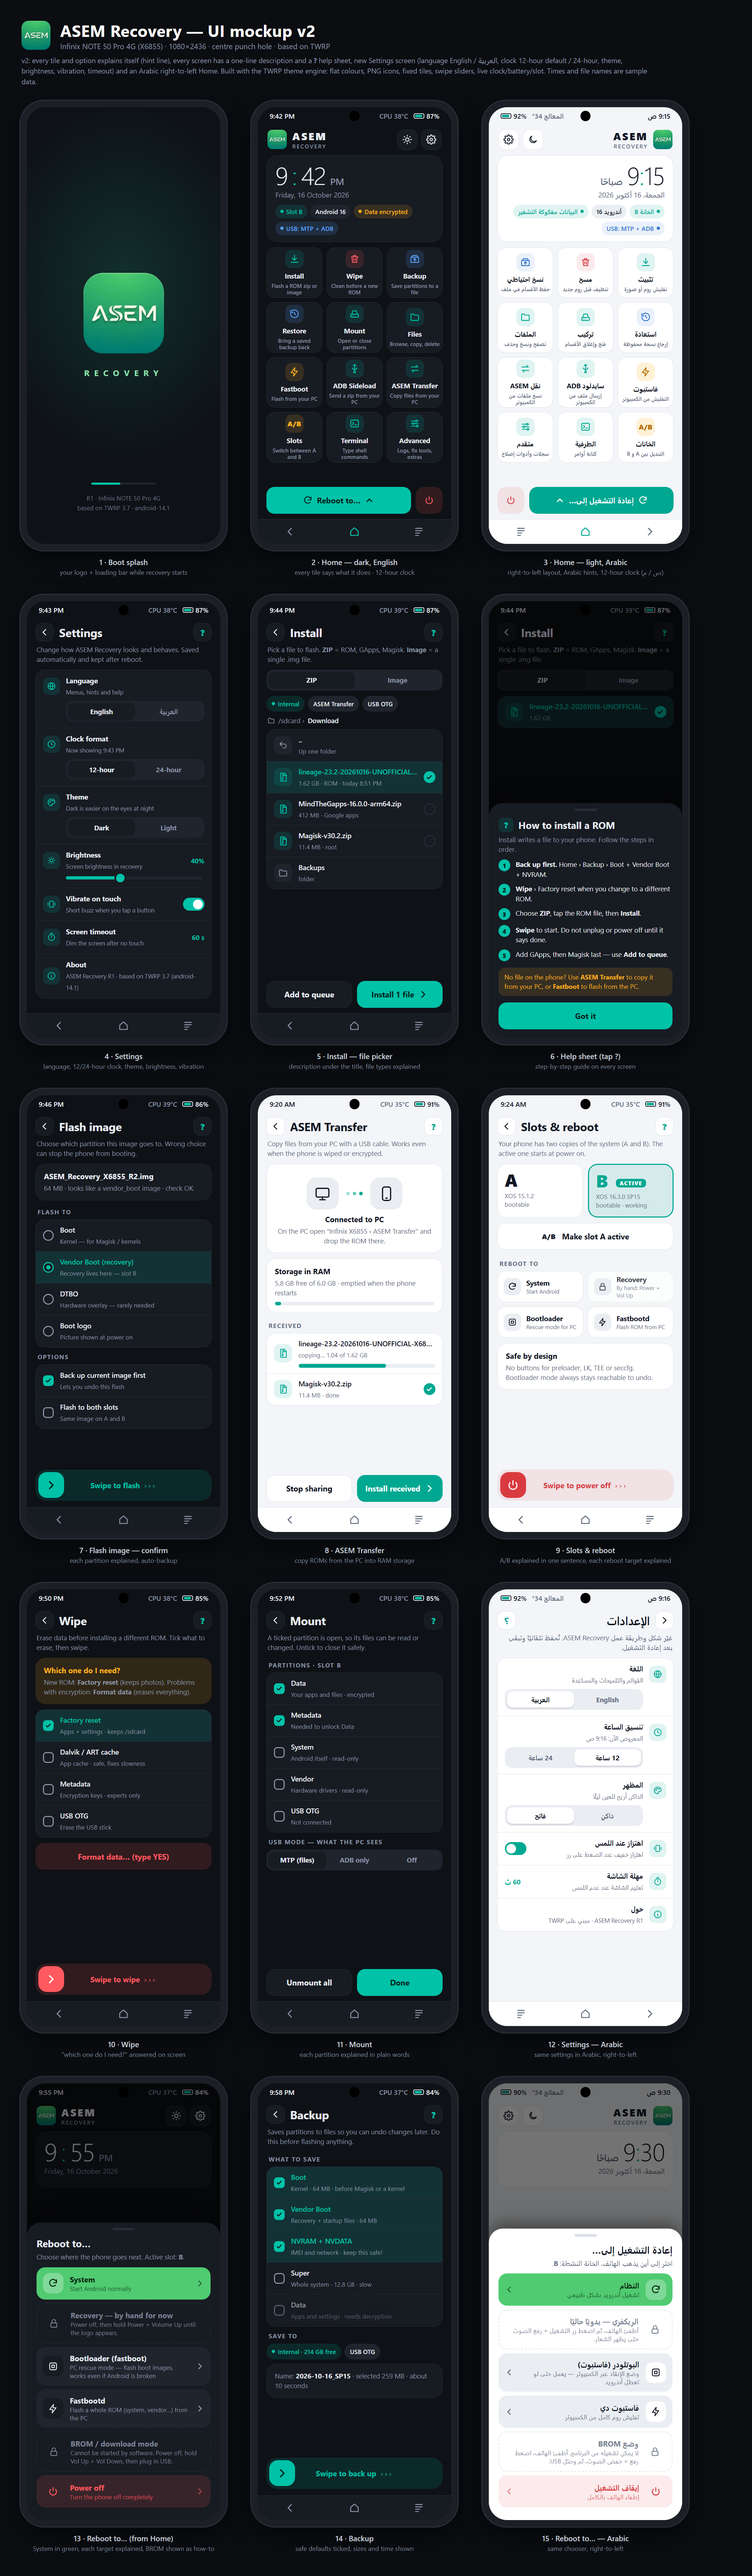
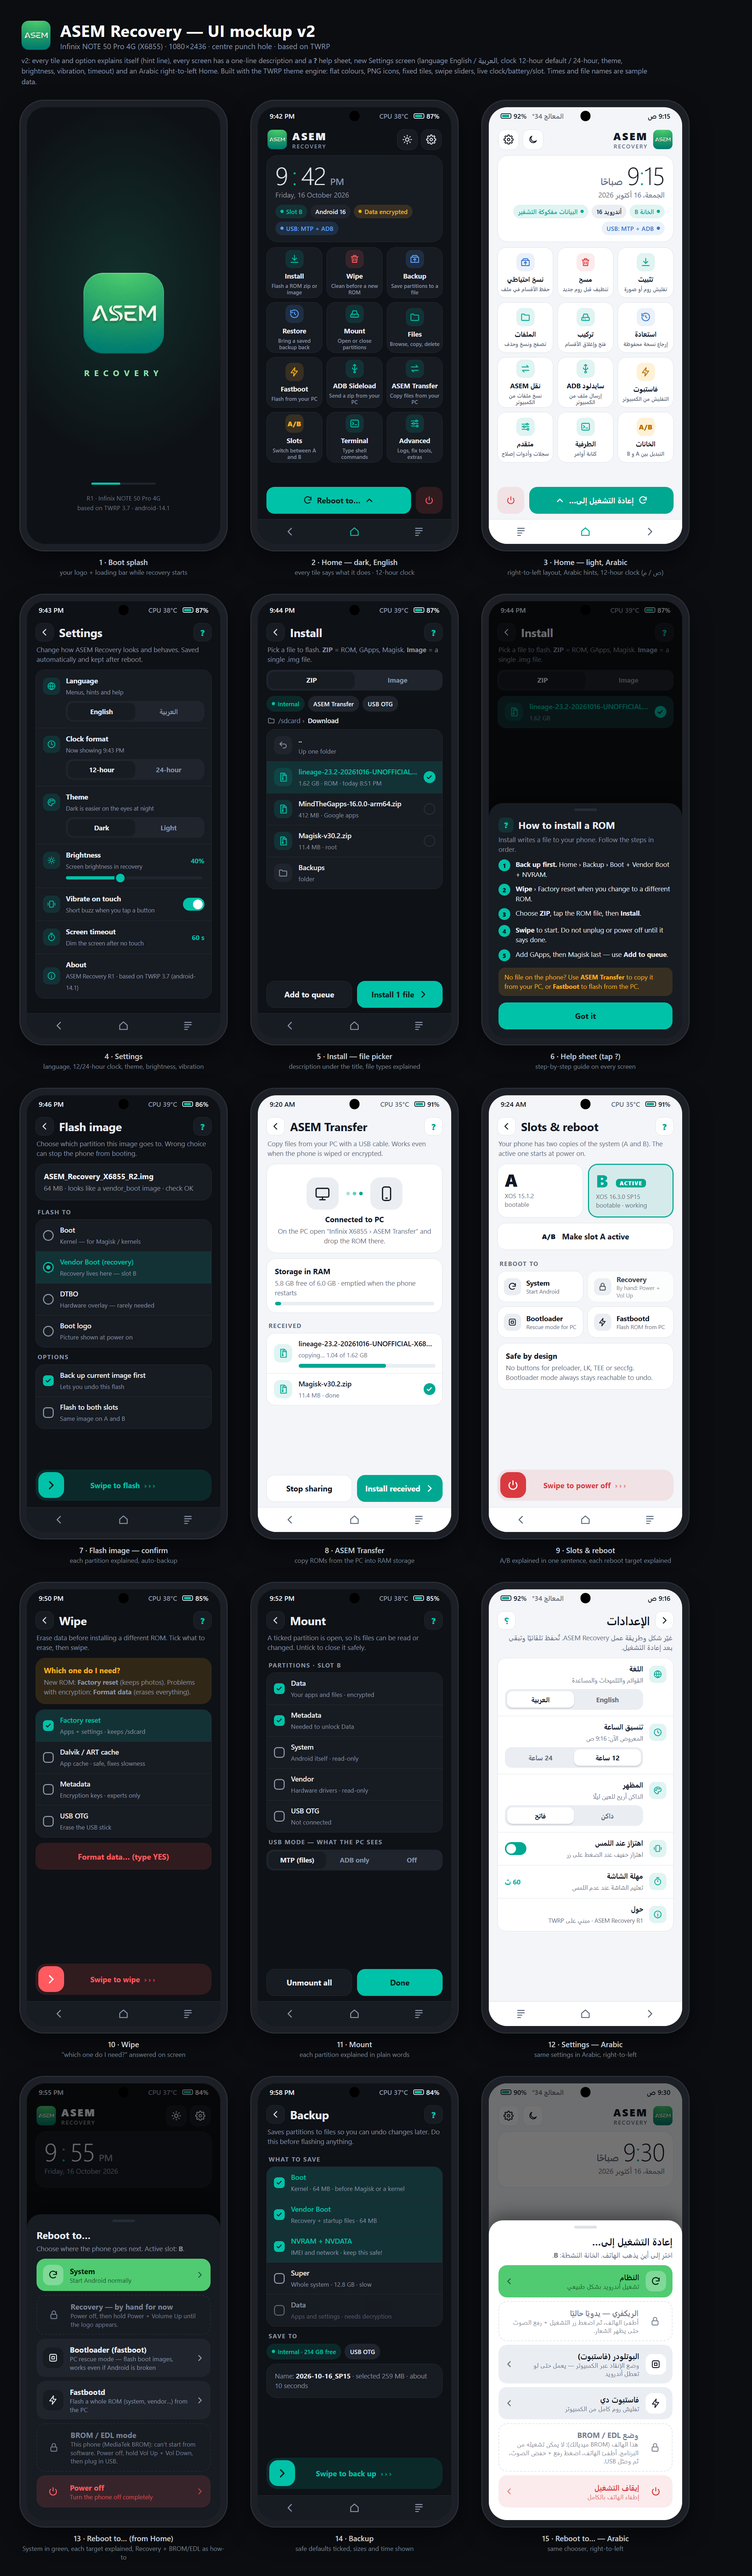
Design: BROM / EDL card (chip-specific text from device config); document universal-recovery goal

Changed region(s): [[0.031, 0.8418, 0.2786, 0.9665], [0.65, 0.8418, 0.8976, 0.9665]]

diff --git a/design/asem_recovery_mockup.html b/design/asem_recovery_mockup.html
@@ -665,11 +665,11 @@ Built with the TWRP theme engine: flat colours, PNG icons, fixed tiles, swipe sl
     <div class="ropt na"><div class="ic"><svg><use href="#i-lock"/></svg></div><div class="t"><b>Recovery &mdash; by hand for now</b><span>Power off, then hold Power + Volume Up until the logo appears.</span></div></div>
     <div class="ropt"><div class="ic"><svg><use href="#i-bootl"/></svg></div><div class="t"><b>Bootloader (fastboot)</b><span>PC rescue mode &mdash; flash boot images, works even if Android is broken</span></div><svg class="chev"><use href="#i-chev"/></svg></div>
     <div class="ropt"><div class="ic"><svg><use href="#i-bolt"/></svg></div><div class="t"><b>Fastbootd</b><span>Flash a whole ROM (system, vendor&hellip;) from the PC</span></div><svg class="chev"><use href="#i-chev"/></svg></div>
-    <div class="ropt na"><div class="ic"><svg><use href="#i-lock"/></svg></div><div class="t"><b>BROM / download mode</b><span>Cannot be started by software. Power off, hold Vol Up + Vol Down, then plug in USB.</span></div></div>
+    <div class="ropt na"><div class="ic"><svg><use href="#i-lock"/></svg></div><div class="t"><b>BROM / EDL mode</b><span>This phone (MediaTek BROM): can't start from software. Power off, hold Vol Up + Vol Down, then plug in USB.</span></div></div>
     <div class="ropt off"><div class="ic"><svg><use href="#i-power"/></svg></div><div class="t"><b>Power off</b><span style="color:inherit;opacity:.8">Turn the phone off completely</span></div><svg class="chev"><use href="#i-chev"/></svg></div>
   </div>
 </div></div>
-<div class="cap">13 &middot; Reboot to&hellip; (from Home)<span>System in green, each target explained, BROM shown as how-to</span></div>
+<div class="cap">13 &middot; Reboot to&hellip; (from Home)<span>System in green, each target explained, Recovery + BROM/EDL as how-to</span></div>
 </div>
 
 <!-- 14 Backup -->
@@ -723,7 +723,7 @@ Built with the TWRP theme engine: flat colours, PNG icons, fixed tiles, swipe sl
     <div class="ropt na"><div class="ic"><svg><use href="#i-lock"/></svg></div><div class="t"><b>الريكفري &mdash; يدويًا حاليًا</b><span>أطفئ الهاتف، ثم اضغط زر التشغيل + رفع الصوت حتى يظهر الشعار.</span></div></div>
     <div class="ropt"><div class="ic"><svg><use href="#i-bootl"/></svg></div><div class="t"><b>البوتلودر (فاستبوت)</b><span>وضع الإنقاذ عبر الكمبيوتر &mdash; يعمل حتى لو تعطل أندرويد</span></div><svg class="chev flip"><use href="#i-chev"/></svg></div>
     <div class="ropt"><div class="ic"><svg><use href="#i-bolt"/></svg></div><div class="t"><b>فاستبوت دي</b><span>تفليش روم كامل من الكمبيوتر</span></div><svg class="chev flip"><use href="#i-chev"/></svg></div>
-    <div class="ropt na"><div class="ic"><svg><use href="#i-lock"/></svg></div><div class="t"><b>وضع BROM</b><span>لا يمكن تشغيله من البرنامج. أطفئ الهاتف، اضغط رفع + خفض الصوت، ثم وصّل USB.</span></div></div>
+    <div class="ropt na"><div class="ic"><svg><use href="#i-lock"/></svg></div><div class="t"><b>وضع BROM / EDL</b><span>هذا الهاتف (BROM ميدياتك): لا يمكن تشغيله من البرنامج. أطفئ الهاتف، اضغط رفع + خفض الصوت، ثم وصّل USB.</span></div></div>
     <div class="ropt off"><div class="ic"><svg><use href="#i-power"/></svg></div><div class="t"><b>إيقاف التشغيل</b><span style="color:inherit;opacity:.8">إطفاء الهاتف بالكامل</span></div><svg class="chev flip"><use href="#i-chev"/></svg></div>
   </div>
 </div></div>

diff --git a/README.md b/README.md
@@ -103,8 +103,19 @@ Enter recovery by hand: power off, hold Power + Volume Up.
     Shown as instructions only (greyed out, lock icon, no button action):
     - Recovery: power off, hold Power + Volume Up until the logo appears.
       Software "reboot recovery" stays disabled until tested safely.
-    - BROM: cannot be entered from software on MediaTek (power off, hold
-      Vol Up + Vol Down, plug in USB).
+    - BROM / EDL: one card for both chip families; its text and behaviour come
+      from the device config. MediaTek (this phone): BROM cannot be entered from
+      software - power off, hold Vol Up + Vol Down, plug in USB. Qualcomm
+      (future): EDL - a real "reboot edl" button only on devices that allow it,
+      otherwise instructions (key combo / test point).
+
+## Long-term goal: universal ASEM Recovery
+
+ASEM Recovery is meant to become universal (other MediaTek phones, later
+Snapdragon). Rule for all work: keep the ASEM theme, texts, translations and
+features device-independent; put everything phone-specific (partitions, offsets,
+backlight path, slot HAL, BROM-vs-EDL card, which reboot targets are allowed)
+in the device tree / a per-device config. X6855 is the first device.
   - Arabic: TWRP's text renderer does not join Arabic letters or do right-to-left
     by itself. Plan: ship a font with Arabic (e.g. Noto Sans Arabic) and convert
     the Arabic language file to pre-joined letter forms in visual order with a
